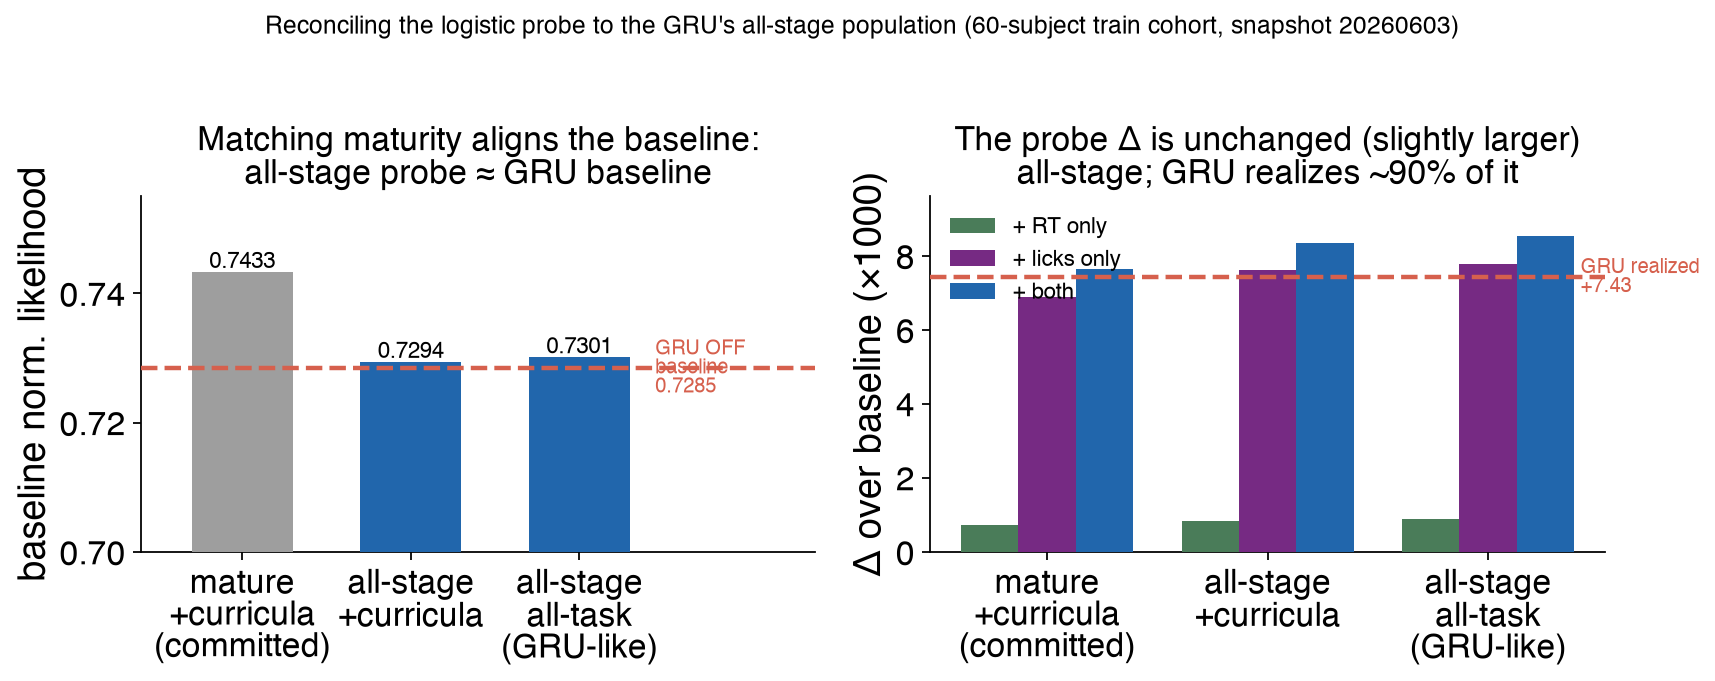
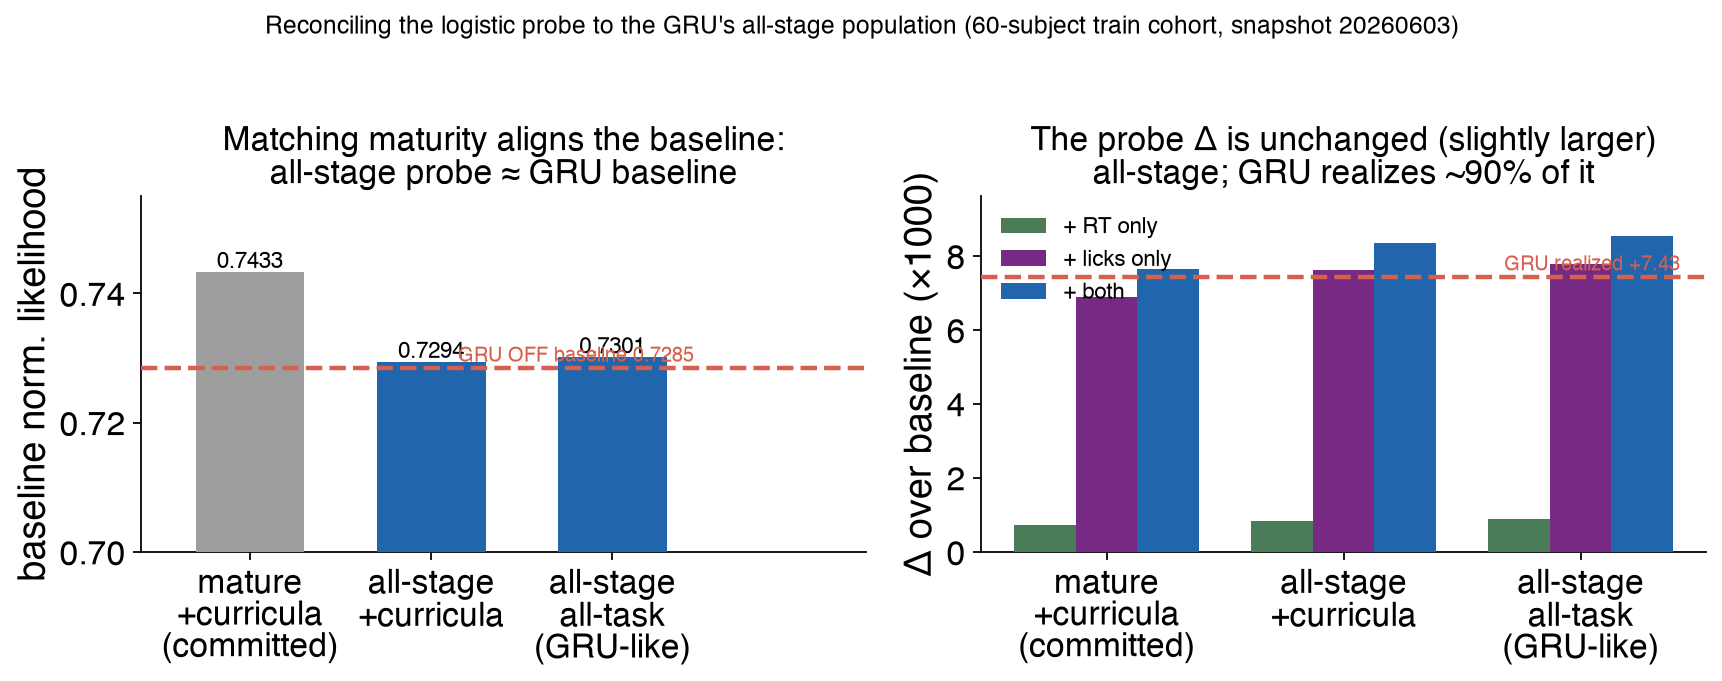
study(07): correct held-out drop reason (RT schema) + fix reconciliation figure annotation
Two review fixes:

1. The 32 held-out mice that drop from the r3 regression: earlier text said they
   were 'sessions without RT/lick events'. Verified the actual cause — they are
   early (2019-2020) OLD-SCHEMA sessions whose trials table exposes goCue_start_time
   / left_lick_time / right_lick_time but NO reaction_time and none of the in-session
   timing columns (goCue_start_time_in_session / choice_time_in_session) that
   build_sequence needs to form previous-trial RT. So their RT is undefined and they
   drop from the RT-dependent fit (lick-time columns ARE present). Corrected in
   provenance/heldout_subjects.txt, r3, CHANGELOG, and the producer docstring/print.

2. probe_maturity_reconciliation.py: the 'GRU OFF baseline' / 'GRU realized'
   annotations were centered on their dashed reference lines (va=center), so each
   line struck through its own text. Anchored above the line (va=bottom, single
   line). Figure regenerated.

diff --git a/studies/07-gru-timing-inputs/analysis/probe_maturity_reconciliation.py b/studies/07-gru-timing-inputs/analysis/probe_maturity_reconciliation.py
@@ -232,8 +232,8 @@ def _figure(df, gru_off, gru_net):
     for xi, v in zip(x, df.baseline):
         ax.text(xi, v + 0.0006, f"{v:.4f}", ha="center", fontsize=10)
     ax.axhline(gru_off, color=ORANGE, lw=2, ls="--", zorder=4)
-    ax.text(len(df) - 0.55, gru_off, f"GRU OFF\nbaseline\n{gru_off:.4f}",
-            color=ORANGE, fontsize=9, va="center", ha="left")
+    ax.text(len(df) - 0.55, gru_off + 0.0004, f"GRU OFF baseline {gru_off:.4f}",
+            color=ORANGE, fontsize=9, va="bottom", ha="right")
     ax.set_xticks(x); ax.set_xticklabels(short); ax.set_ylim(0.70, 0.755)
     ax.set_ylabel("baseline norm. likelihood")
     ax.set_title("Matching maturity aligns the baseline:\nall-stage probe \u2248 GRU baseline")
@@ -244,8 +244,8 @@ def _figure(df, gru_off, gru_net):
     ax.bar(x, df.d_lick * 1000, w, color=PURPLE, label="+ licks only", zorder=3)
     ax.bar(x + w, df.d_both * 1000, w, color=BLUE, label="+ both", zorder=3)
     ax.axhline(gru_net * 1000, color=ORANGE, lw=2, ls="--", zorder=4)
-    ax.text(len(df) - 0.58, gru_net * 1000, f"GRU realized\n+{gru_net * 1000:.2f}",
-            color=ORANGE, fontsize=9, va="center", ha="left")
+    ax.text(len(df) - 0.58, gru_net * 1000 + 0.08, f"GRU realized +{gru_net * 1000:.2f}",
+            color=ORANGE, fontsize=9, va="bottom", ha="right")
     ax.set_xticks(x); ax.set_xticklabels(short)
     ax.set_ylabel("\u0394 over baseline (\u00d71000)")
     ax.set_title("The probe \u0394 is unchanged (slightly larger)\nall-stage; GRU realizes ~90% of it")

diff --git a/studies/07-gru-timing-inputs/analysis/why_features_help.py b/studies/07-gru-timing-inputs/analysis/why_features_help.py
@@ -15,7 +15,8 @@ Two regressions on responded trials (per-session previous-trial shift), stay =
 
 The reward interaction is the point: it separates a reward-INDEPENDENT signal
 (engagement) from a reward-GATED one (post-outcome abandonment). Verdict
-(HELD-OUT mice with RT/lick data, 125 of 157, n~1.57M; slope/+1SD, per-mouse
+(HELD-OUT mice with computable RT, 125 of 157 -- the other 32 are early old-schema
+sessions lacking the reaction_time field; n~1.57M; slope/+1SD, per-mouse
 cluster-bootstrap 95% CI):
   RT    unrewarded -0.29 [-0.34,-0.25] (z~-13), rewarded -0.23 [-0.29,-0.16]
         (z~-6.9) -> slower responding precedes switching REGARDLESS of outcome
@@ -267,7 +268,7 @@ def main():
     pd.DataFrame(rows).to_csv(STUDY / "why_features_help.csv", index=False)
     figure(seq, m_rt, m_lk)
     print(f"why_features_help: n={len(seq)} trials, {seq['subject_id'].nunique()} mice with "
-          f"RT/lick data (of {len(subjects)} held-out pinned); wrote fig + csv")
+          f"computable RT (of {len(subjects)} held-out pinned); wrote fig + csv")
 
 
 if __name__ == "__main__":

diff --git a/studies/07-gru-timing-inputs/analysis/reports/r3-why-features-help.md b/studies/07-gru-timing-inputs/analysis/reports/r3-why-features-help.md
@@ -23,9 +23,12 @@ be told apart from a reward-**gated** one:
 
 **Cohort: the held-out mice** — animals the study-07 GRU was *evaluated* on but
 never trained on (the eligible cohort minus the union of every training cohort;
-157 pinned in `analysis/provenance/heldout_subjects.txt`, of which **125 have
-usable RT/lick trial data** and enter the regressions — the other 32 are early
-2019–2020 sessions logged without RT/lick events). This is deliberate: the GRU's
+157 pinned in `analysis/provenance/heldout_subjects.txt`, of which **125 enter
+the regressions** — the other 32 are early 2019–2020 *old-schema* sessions that
+lack the `reaction_time` field and the in-session go-cue/choice-time columns
+`build_sequence` needs to form previous-trial RT, so their RT is undefined and
+they drop from the RT-dependent fit (their lick-time columns are present; it is
+the RT that cannot be computed)). This is deliberate: the GRU's
 likelihood gain is scored on held-out mice, so the behavioural coupling that
 explains it is shown on the same population. All-stage sessions, snapshot 20260603,
 n = 1,568,597 trials. (This approximates the GRU's 149-mouse eval set; the exact

diff --git a/studies/07-gru-timing-inputs/CHANGELOG.md b/studies/07-gru-timing-inputs/CHANGELOG.md
@@ -12,7 +12,8 @@ Dates in America/Los_Angeles.
   reward-GATED (more licking after no-reward → abandon; after reward → mild stay).
 - Cohort = the **held-out mice** (pinned in `provenance/heldout_subjects.txt`:
   eligible cohort minus the union of every GRU training cohort; 157 listed, 125
-  with usable RT/lick data enter the regressions). Chosen because the GRU's
+  enter the regressions — the other 32 are early old-schema sessions lacking the
+  `reaction_time` field build_sequence needs to form previous-trial RT). Chosen because the GRU's
   likelihood gain is scored on held-out mice, so the mechanism is shown on the
   population it explains — and the coupling is population-general (the same trend
   holds on the train mice), which is why the model generalizes. Effects are firmer
